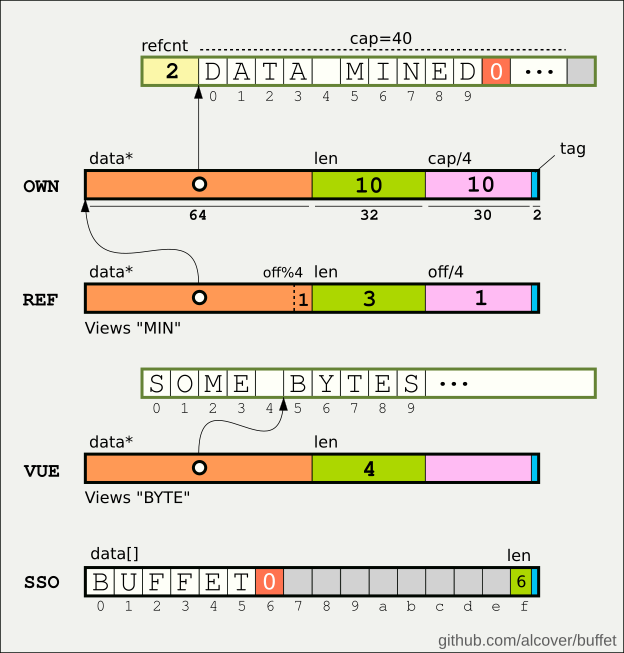
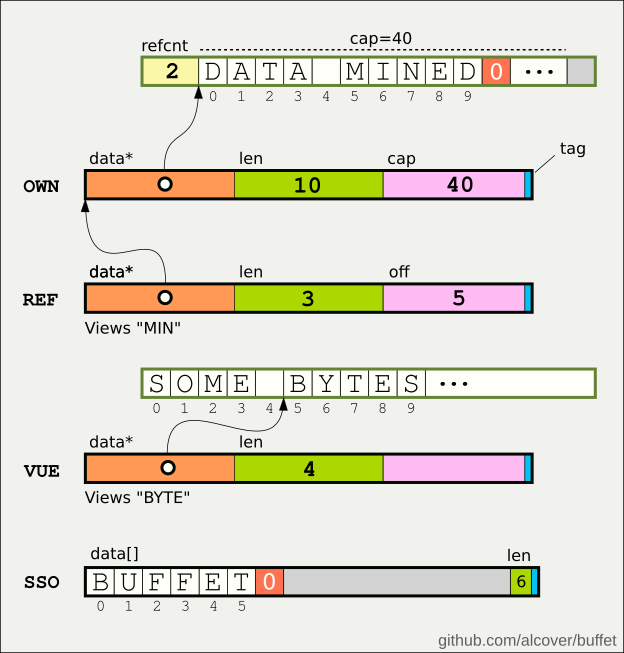
v0.6

diff --git a/src/buffet.c b/src/buffet.c
@@ -88,38 +88,9 @@ new_vue (const char *src, size_t len)
     return (Buffet) {
         .ptr.data = (char*)src,
         .ptr.len = len,
-        // .ptr.aux = 0,
+        .ptr.aux = 0,
         .ptr.tag = VUE
     };
-}
-
-
-static char*
-grow_sso (Buffet *buf, size_t newcap)
-{
-    Buffet own = new_own (newcap, buf->sso.data, buf->sso.len);
-    char *data = own.ptr.data;
-    if (data) *buf = own;
-
-    return data;
-}
-
-
-static char*
-grow_own (Buffet *buf, size_t newcap)
-{
-    Store *store = getstore(buf);
-
-    if (store->canary != CANARY) {ERR_CANARY; return NULL;}
-    
-    store = realloc(store, DATAOFF + newcap + 1);
-    if (!store) return NULL;
-    char *data = store->data;
-
-    DATA(buf) = data;
-    buf->ptr.aux = newcap;
-
-    return data;
 }
 
 
@@ -127,9 +98,34 @@ static char*
 grow (Buffet *buf, size_t newcap)
 {
     Tag tag = TAG(buf);
-    assert(tag==SSO||tag==OWN);
+    char *data = NULL;
 
-    return tag==SSO ? grow_sso(buf, newcap) : grow_own(buf, newcap);
+    if (tag==SSO) {
+
+        Buffet own = new_own (newcap, buf->sso.data, buf->sso.len);
+        data = own.ptr.data;
+        if (data) *buf = own;
+
+    } else {
+
+        assert(tag==OWN);
+
+        Store *store = getstore(buf);
+
+        if (store->canary != CANARY) {
+            ERR_CANARY; 
+            return NULL;
+        }
+        
+        store = realloc(store, DATAOFF + newcap + 1);
+        if (store) {
+            data = store->data;
+            DATA(buf) = data;
+            buf->ptr.aux = newcap;
+        }
+    }
+    
+    return data;
 }
 
 

diff --git a/src/buffet.h b/src/buffet.h
@@ -52,7 +52,7 @@ extern "C" {
 Buffet  buffet_new (size_t cap);
 Buffet  buffet_memcopy (const char *src, size_t len);
 Buffet  buffet_memview (const char *src, size_t len);
-Buffet  buffet_dup (const Buffet *src);
+Buffet  buffet_dup  (const Buffet *src);
 Buffet  buffet_copy (const Buffet *src, ptrdiff_t off, size_t len);
 Buffet  buffet_view (Buffet *src, ptrdiff_t off, size_t len);
 Buffet  buffet_join (const Buffet *list, int cnt, 

diff --git a/README.md b/README.md
@@ -11,9 +11,8 @@ Buffet is an experimental polymorphic string buffer with
 - **SSO** (small string optimization)
 - **views** : no-copy references to slices of data  
 - **refcount** : secure release of owned data
-- 4GB max length (possibly 16)
 
-It is compact (**16 bytes**), reasonably [**fast**](#Speed) and aims at total [**security**](#Security).  
+It aims at total [**security**](#Security) with decent [**speed**](#Speed).  
 Coming: thread safety
 
 ---
@@ -21,19 +20,20 @@ Coming: thread safety
 ## How
 
 ```C
+// Hard values illustrate running on 64-bit
 union Buffet {
         
     // OWN|REF|VUE
     struct {
-        char*    data
-        uint32_t len
-        uint32_t aux:30, 2 // aux = cap|off
+        char*  data
+        size_t len
+        size_t aux:62, tag:2 // aux = cap|off
     } ptr
 
     // SSO
     struct {
-        char     data[15]
-        uint8_t  len:6, 2
+        char    data[23]
+        uint8_t len:6, tag:2
     } sso
 }
 ```  
@@ -96,19 +96,35 @@ While extensive, tests may not yet cover *all* cases.
 (requires *libbenchmark-dev*)  
 
 NB: No effort has yet been done on optimization.  
-NB: Bench is amateurish, maybe unfair.
+NB: Bench is maybe unfair.
 
-On my weak Thinkpad :  
+On a weak Thinkpad :  
 ```
-SPLITJOIN_cppView       3492 ns
-SPLITJOIN_plainC        2923 ns
-SPLITJOIN_buffet        1380 ns
-APPEND_cpp/1              26 us
-APPEND_cpp/8              86 us
-APPEND_cpp/64            668 us
-APPEND_buffet/1           74 us
-APPEND_buffet/8           87 us
-APPEND_buffet/64         132 us
+MEMCOPY_plainc/8            18 ns
+MEMCOPY_buffet/8            19 ns
+MEMCOPY_plainc/32           18 ns
+MEMCOPY_buffet/32           27 ns
+MEMCOPY_plainc/128          21 ns
+MEMCOPY_buffet/128          29 ns
+MEMCOPY_plainc/512          30 ns
+MEMCOPY_buffet/512          41 ns
+MEMCOPY_plainc/2048         80 ns
+MEMCOPY_buffet/2048        102 ns
+MEMCOPY_plainc/8192        205 ns
+MEMCOPY_buffet/8192        282 ns
+MEMVIEW_cppview/8            1 ns
+MEMVIEW_buffet/8             7 ns
+APPEND_cppstr/8/4            8 ns
+APPEND_buffet/8/4           12 ns
+APPEND_cppstr/8/16          12 ns
+APPEND_buffet/8/16          13 ns
+APPEND_cppstr/24/4           7 ns
+APPEND_buffet/24/4          12 ns
+APPEND_cppstr/24/32         30 ns
+APPEND_buffet/24/32         18 ns
+SPLITJOIN_plainc          3213 ns
+SPLITJOIN_cppview         3294 ns
+SPLITJOIN_buffet          1516 ns
 ```
 
 
@@ -217,7 +233,8 @@ buffet_debug(&copy);
 Buffet buffet_memview (const char *src, size_t len)
 ```
 Create a new Buffet viewing *len* bytes from *src*.  
-You get a window into *src* without copy or allocation.
+You get a window into *src* without copy or allocation.  
+NB: You shouldn't directly *memview* a Buffet's *data*. Use *view()*
 
 ```C
 char src[] = "Eat Buffet!";
